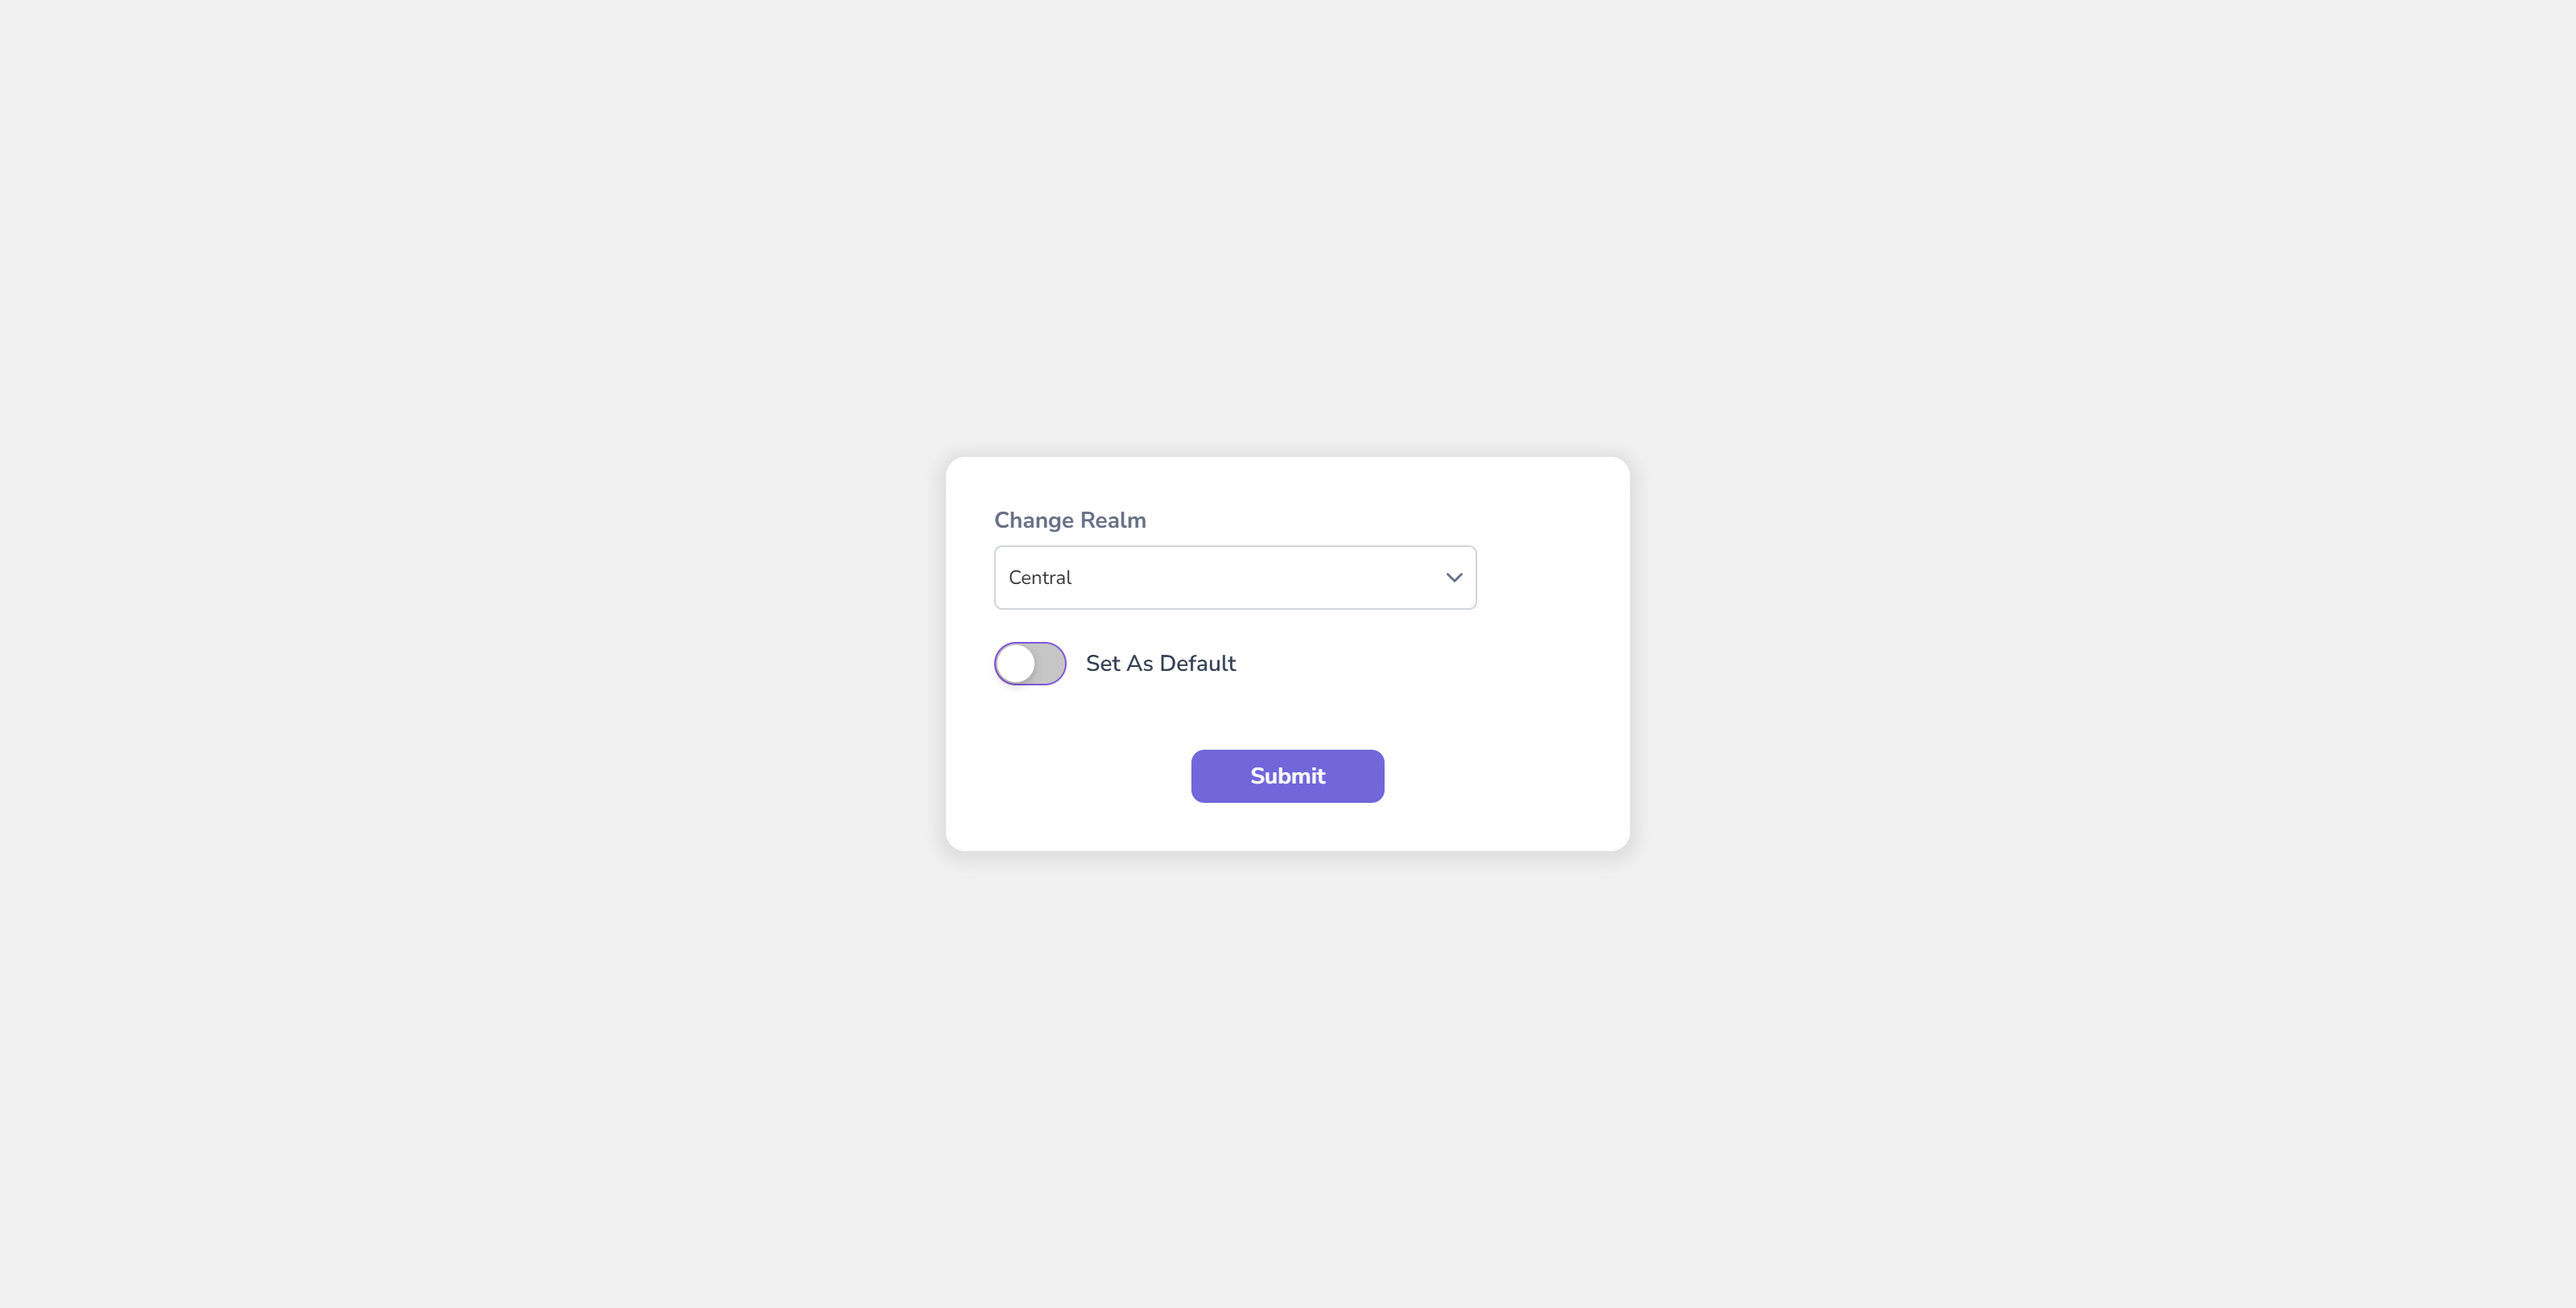
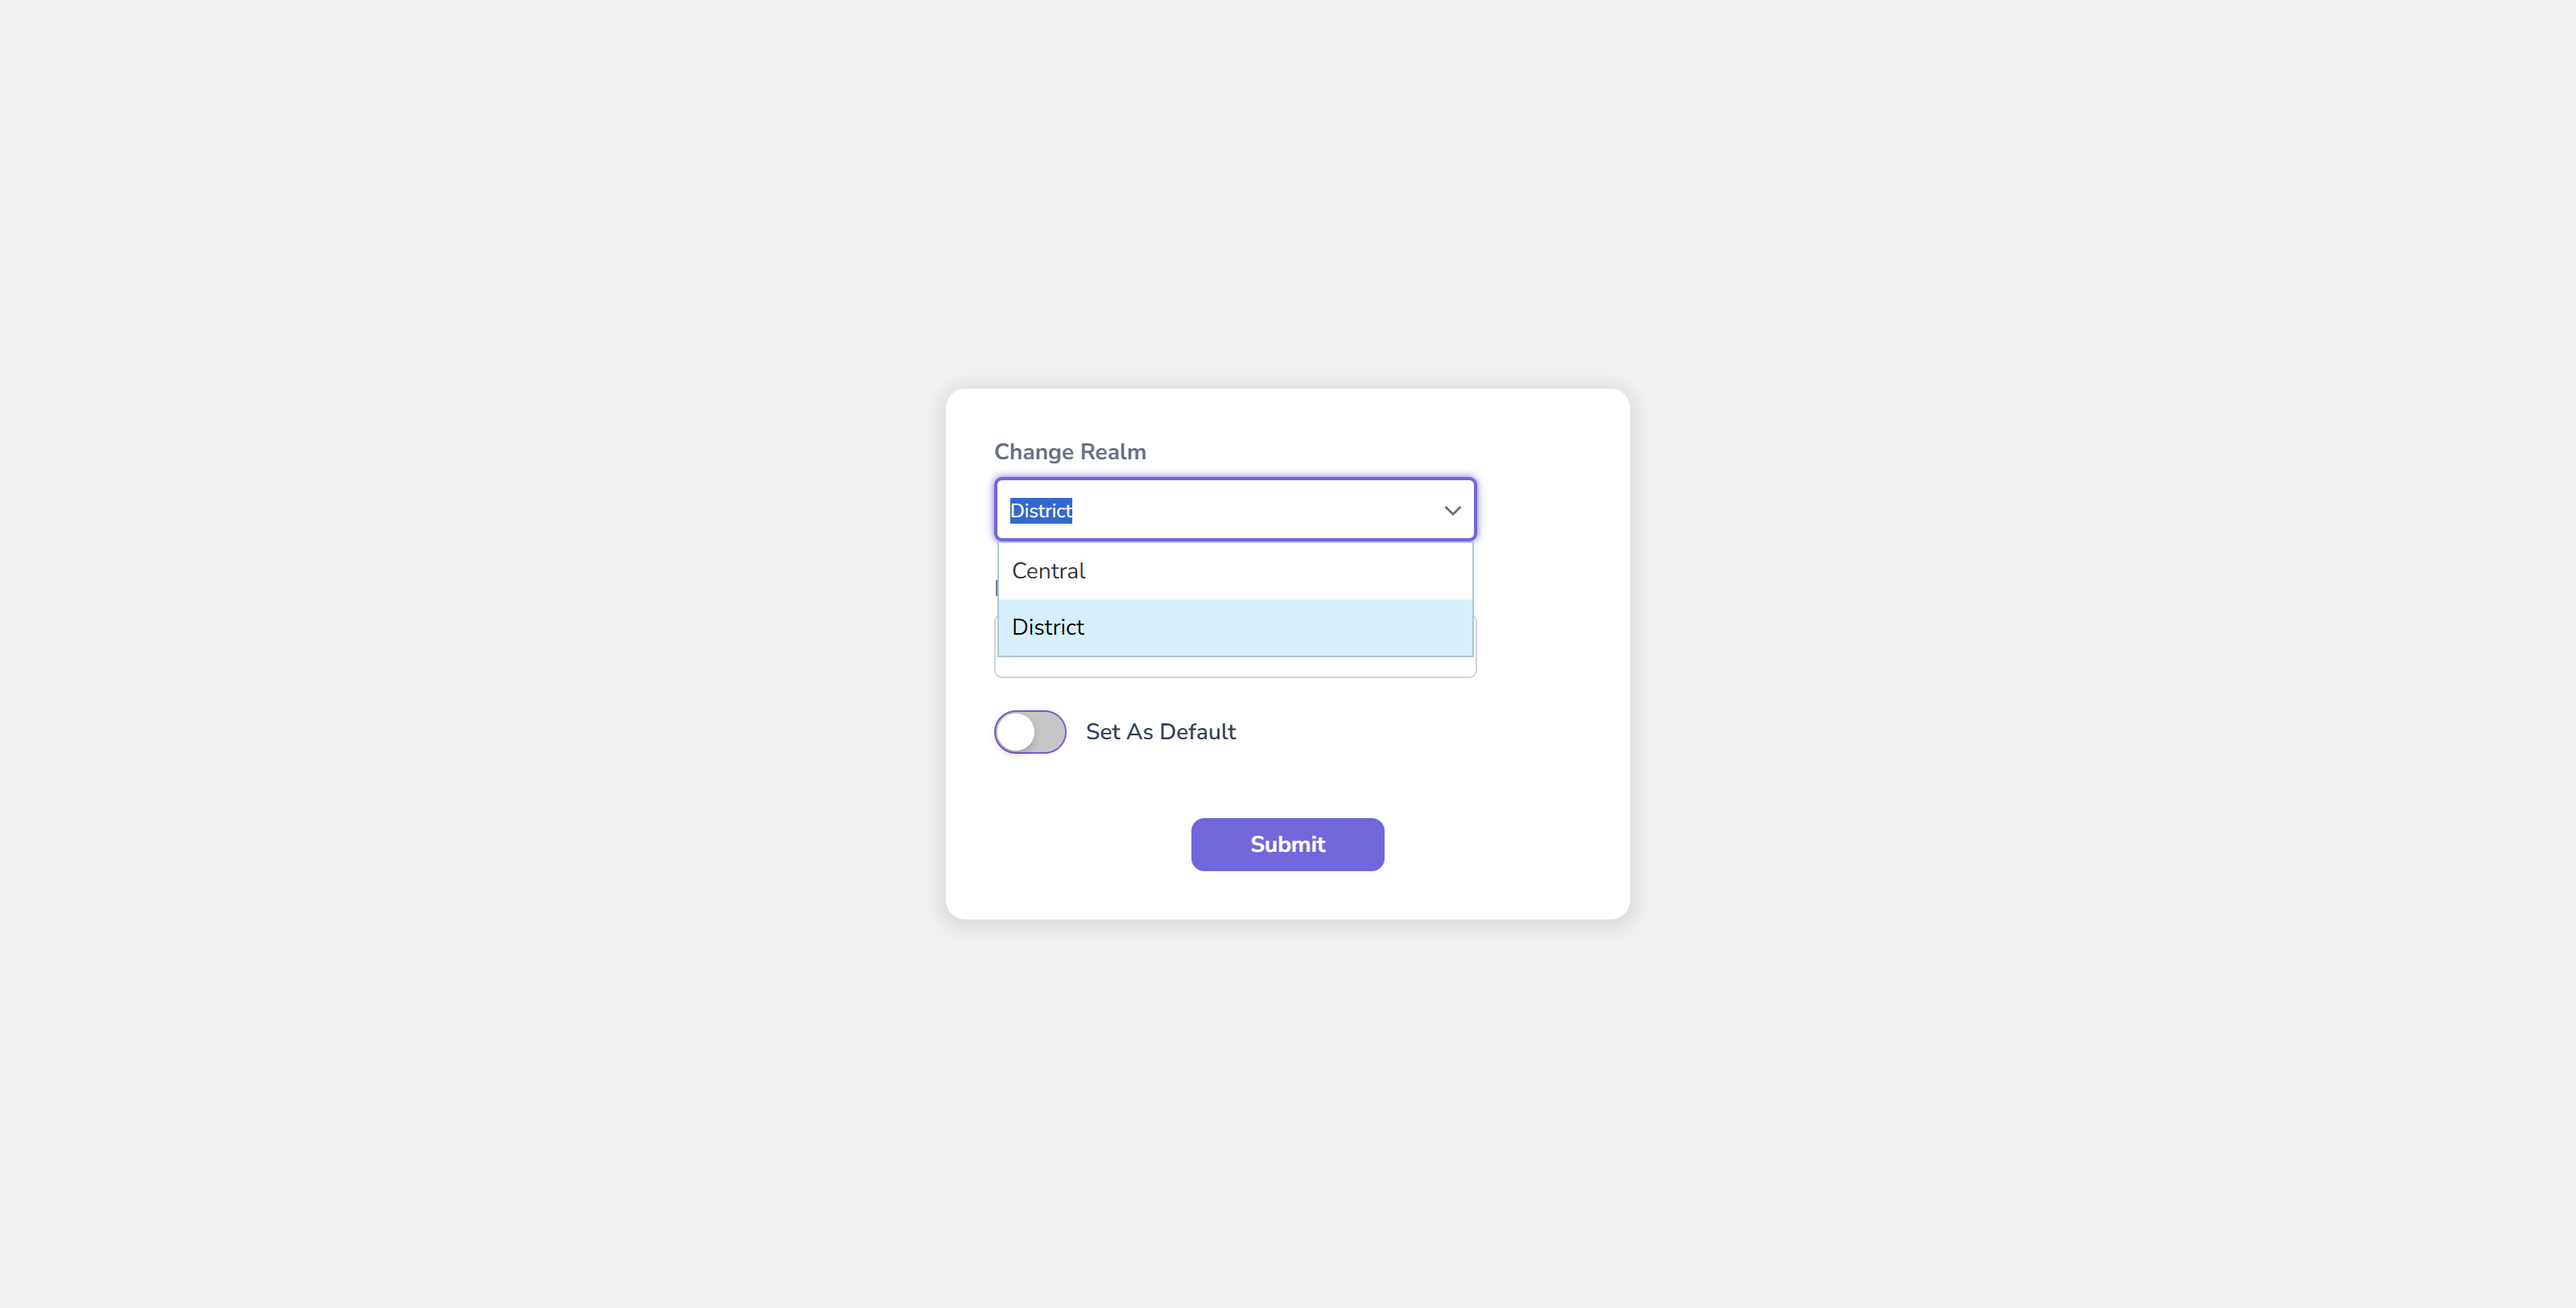
waits added for user managment test

Changed region(s): [[0.375, 0.3383, 0.625, 0.6765]]

diff --git a/reports/report.html b/reports/report.html
@@ -328,7 +328,7 @@ div.media {
   </head>
   <body>
     <h1 id="title">report.html</h1>
-    <p>Report generated on 31-Dec-2025 at 09:40:56 by <a href="https://pypi.python.org/pypi/pytest-html">pytest-html</a>
+    <p>Report generated on 31-Dec-2025 at 10:40:59 by <a href="https://pypi.python.org/pypi/pytest-html">pytest-html</a>
         v4.1.1</p>
     <div id="environment-header">
       <h2>Environment</h2>
@@ -382,7 +382,7 @@ div.media {
         <h2>Summary</h2>
         <div class="additional-summary prefix">
         </div>
-        <p class="run-count">1 test took 00:00:50.</p>
+        <p class="run-count">1 test took 00:01:03.</p>
         <p class="filter">(Un)check the boxes to filter the results.</p>
         <div class="summary__reload">
           <div class="summary__reload__button hidden" onclick="location.reload()">
@@ -429,7 +429,7 @@ div.media {
     </table>
   </body>
   <footer>
-    <div id="data-container" data-jsonblob="{&#34;environment&#34;: {&#34;Python&#34;: &#34;3.14.2&#34;, &#34;Platform&#34;: &#34;Windows-11-10.0.26200-SP0&#34;, &#34;Packages&#34;: {&#34;pytest&#34;: &#34;9.0.2&#34;, &#34;pluggy&#34;: &#34;1.6.0&#34;}, &#34;Plugins&#34;: {&#34;base-url&#34;: &#34;2.1.0&#34;, &#34;html&#34;: &#34;4.1.1&#34;, &#34;metadata&#34;: &#34;3.1.1&#34;, &#34;variables&#34;: &#34;3.1.0&#34;, &#34;xdist&#34;: &#34;3.8.0&#34;}, &#34;JAVA_HOME&#34;: &#34;C:\\Program Files\\Java\\jdk-21&#34;, &#34;Base URL&#34;: &#34;&#34;}, &#34;tests&#34;: {&#34;test_login.py::test_user_login_valid_credentials&#34;: [{&#34;extras&#34;: [], &#34;result&#34;: &#34;Passed&#34;, &#34;testId&#34;: &#34;test_login.py::test_user_login_valid_credentials&#34;, &#34;duration&#34;: &#34;00:00:50&#34;, &#34;resultsTableRow&#34;: [&#34;&lt;td class=\&#34;col-result\&#34;&gt;Passed&lt;/td&gt;&#34;, &#34;&lt;td class=\&#34;col-testId\&#34;&gt;test_login.py::test_user_login_valid_credentials&lt;/td&gt;&#34;, &#34;&lt;td class=\&#34;col-duration\&#34;&gt;00:00:50&lt;/td&gt;&#34;, &#34;&lt;td class=\&#34;col-links\&#34;&gt;&lt;/td&gt;&#34;], &#34;log&#34;: &#34;No log output captured.&#34;}]}, &#34;renderCollapsed&#34;: [&#34;passed&#34;], &#34;initialSort&#34;: &#34;result&#34;, &#34;title&#34;: &#34;report.html&#34;}"></div>
+    <div id="data-container" data-jsonblob="{&#34;environment&#34;: {&#34;Python&#34;: &#34;3.14.2&#34;, &#34;Platform&#34;: &#34;Windows-11-10.0.26200-SP0&#34;, &#34;Packages&#34;: {&#34;pytest&#34;: &#34;9.0.2&#34;, &#34;pluggy&#34;: &#34;1.6.0&#34;}, &#34;Plugins&#34;: {&#34;base-url&#34;: &#34;2.1.0&#34;, &#34;html&#34;: &#34;4.1.1&#34;, &#34;metadata&#34;: &#34;3.1.1&#34;, &#34;variables&#34;: &#34;3.1.0&#34;, &#34;xdist&#34;: &#34;3.8.0&#34;}, &#34;JAVA_HOME&#34;: &#34;C:\\Program Files\\Java\\jdk-21&#34;, &#34;Base URL&#34;: &#34;&#34;}, &#34;tests&#34;: {&#34;test_user_management.py::test_add_new_user&#34;: [{&#34;extras&#34;: [], &#34;result&#34;: &#34;Passed&#34;, &#34;testId&#34;: &#34;test_user_management.py::test_add_new_user&#34;, &#34;duration&#34;: &#34;00:01:03&#34;, &#34;resultsTableRow&#34;: [&#34;&lt;td class=\&#34;col-result\&#34;&gt;Passed&lt;/td&gt;&#34;, &#34;&lt;td class=\&#34;col-testId\&#34;&gt;test_user_management.py::test_add_new_user&lt;/td&gt;&#34;, &#34;&lt;td class=\&#34;col-duration\&#34;&gt;00:01:03&lt;/td&gt;&#34;, &#34;&lt;td class=\&#34;col-links\&#34;&gt;&lt;/td&gt;&#34;], &#34;log&#34;: &#34;No log output captured.&#34;}]}, &#34;renderCollapsed&#34;: [&#34;passed&#34;], &#34;initialSort&#34;: &#34;result&#34;, &#34;title&#34;: &#34;report.html&#34;}"></div>
     <script>
       (function(){function r(e,n,t){function o(i,f){if(!n[i]){if(!e[i]){var c="function"==typeof require&&require;if(!f&&c)return c(i,!0);if(u)return u(i,!0);var a=new Error("Cannot find module '"+i+"'");throw a.code="MODULE_NOT_FOUND",a}var p=n[i]={exports:{}};e[i][0].call(p.exports,function(r){var n=e[i][1][r];return o(n||r)},p,p.exports,r,e,n,t)}return n[i].exports}for(var u="function"==typeof require&&require,i=0;i<t.length;i++)o(t[i]);return o}return r})()({1:[function(require,module,exports){
 const { getCollapsedCategory, setCollapsedIds } = require('./storage.js')

diff --git a/page_manage_users.py b/page_manage_users.py
@@ -1,5 +1,7 @@
 from selenium.webdriver import ActionChains, Keys
 from selenium.webdriver.common.by import By
+from selenium.webdriver.support import expected_conditions
+from selenium.webdriver.support.wait import WebDriverWait
 
 
 class ManageUsersPage:
@@ -11,9 +13,14 @@ class ManageUsersPage:
         self.search_user_username_textbox = (By.ID, 'ctl00_UserContentArea_ucUserSearch_UsersRadGrid_ctl00_ctl02_ctl02_FilterTextBox_UserName')
 
     def click_user_add_button(self):
-        self.driver.find_element(*self.user_add_button).click()
+        ele = self.driver.find_element(*self.user_add_button)
+        wait = WebDriverWait(self.driver, 10)
+        wait.until(expected_conditions.element_to_be_clickable(ele))
+        ele.click()
 
     def type_in_and_press_enter_to_search_user_username_textbox(self, username):
         ele = self.driver.find_element(*self.search_user_username_textbox)
+        wait = WebDriverWait(self.driver, 10)
+        wait.until(expected_conditions.element_to_be_clickable(ele))
         ele.send_keys(username)
         ele.send_keys(Keys.ENTER)
